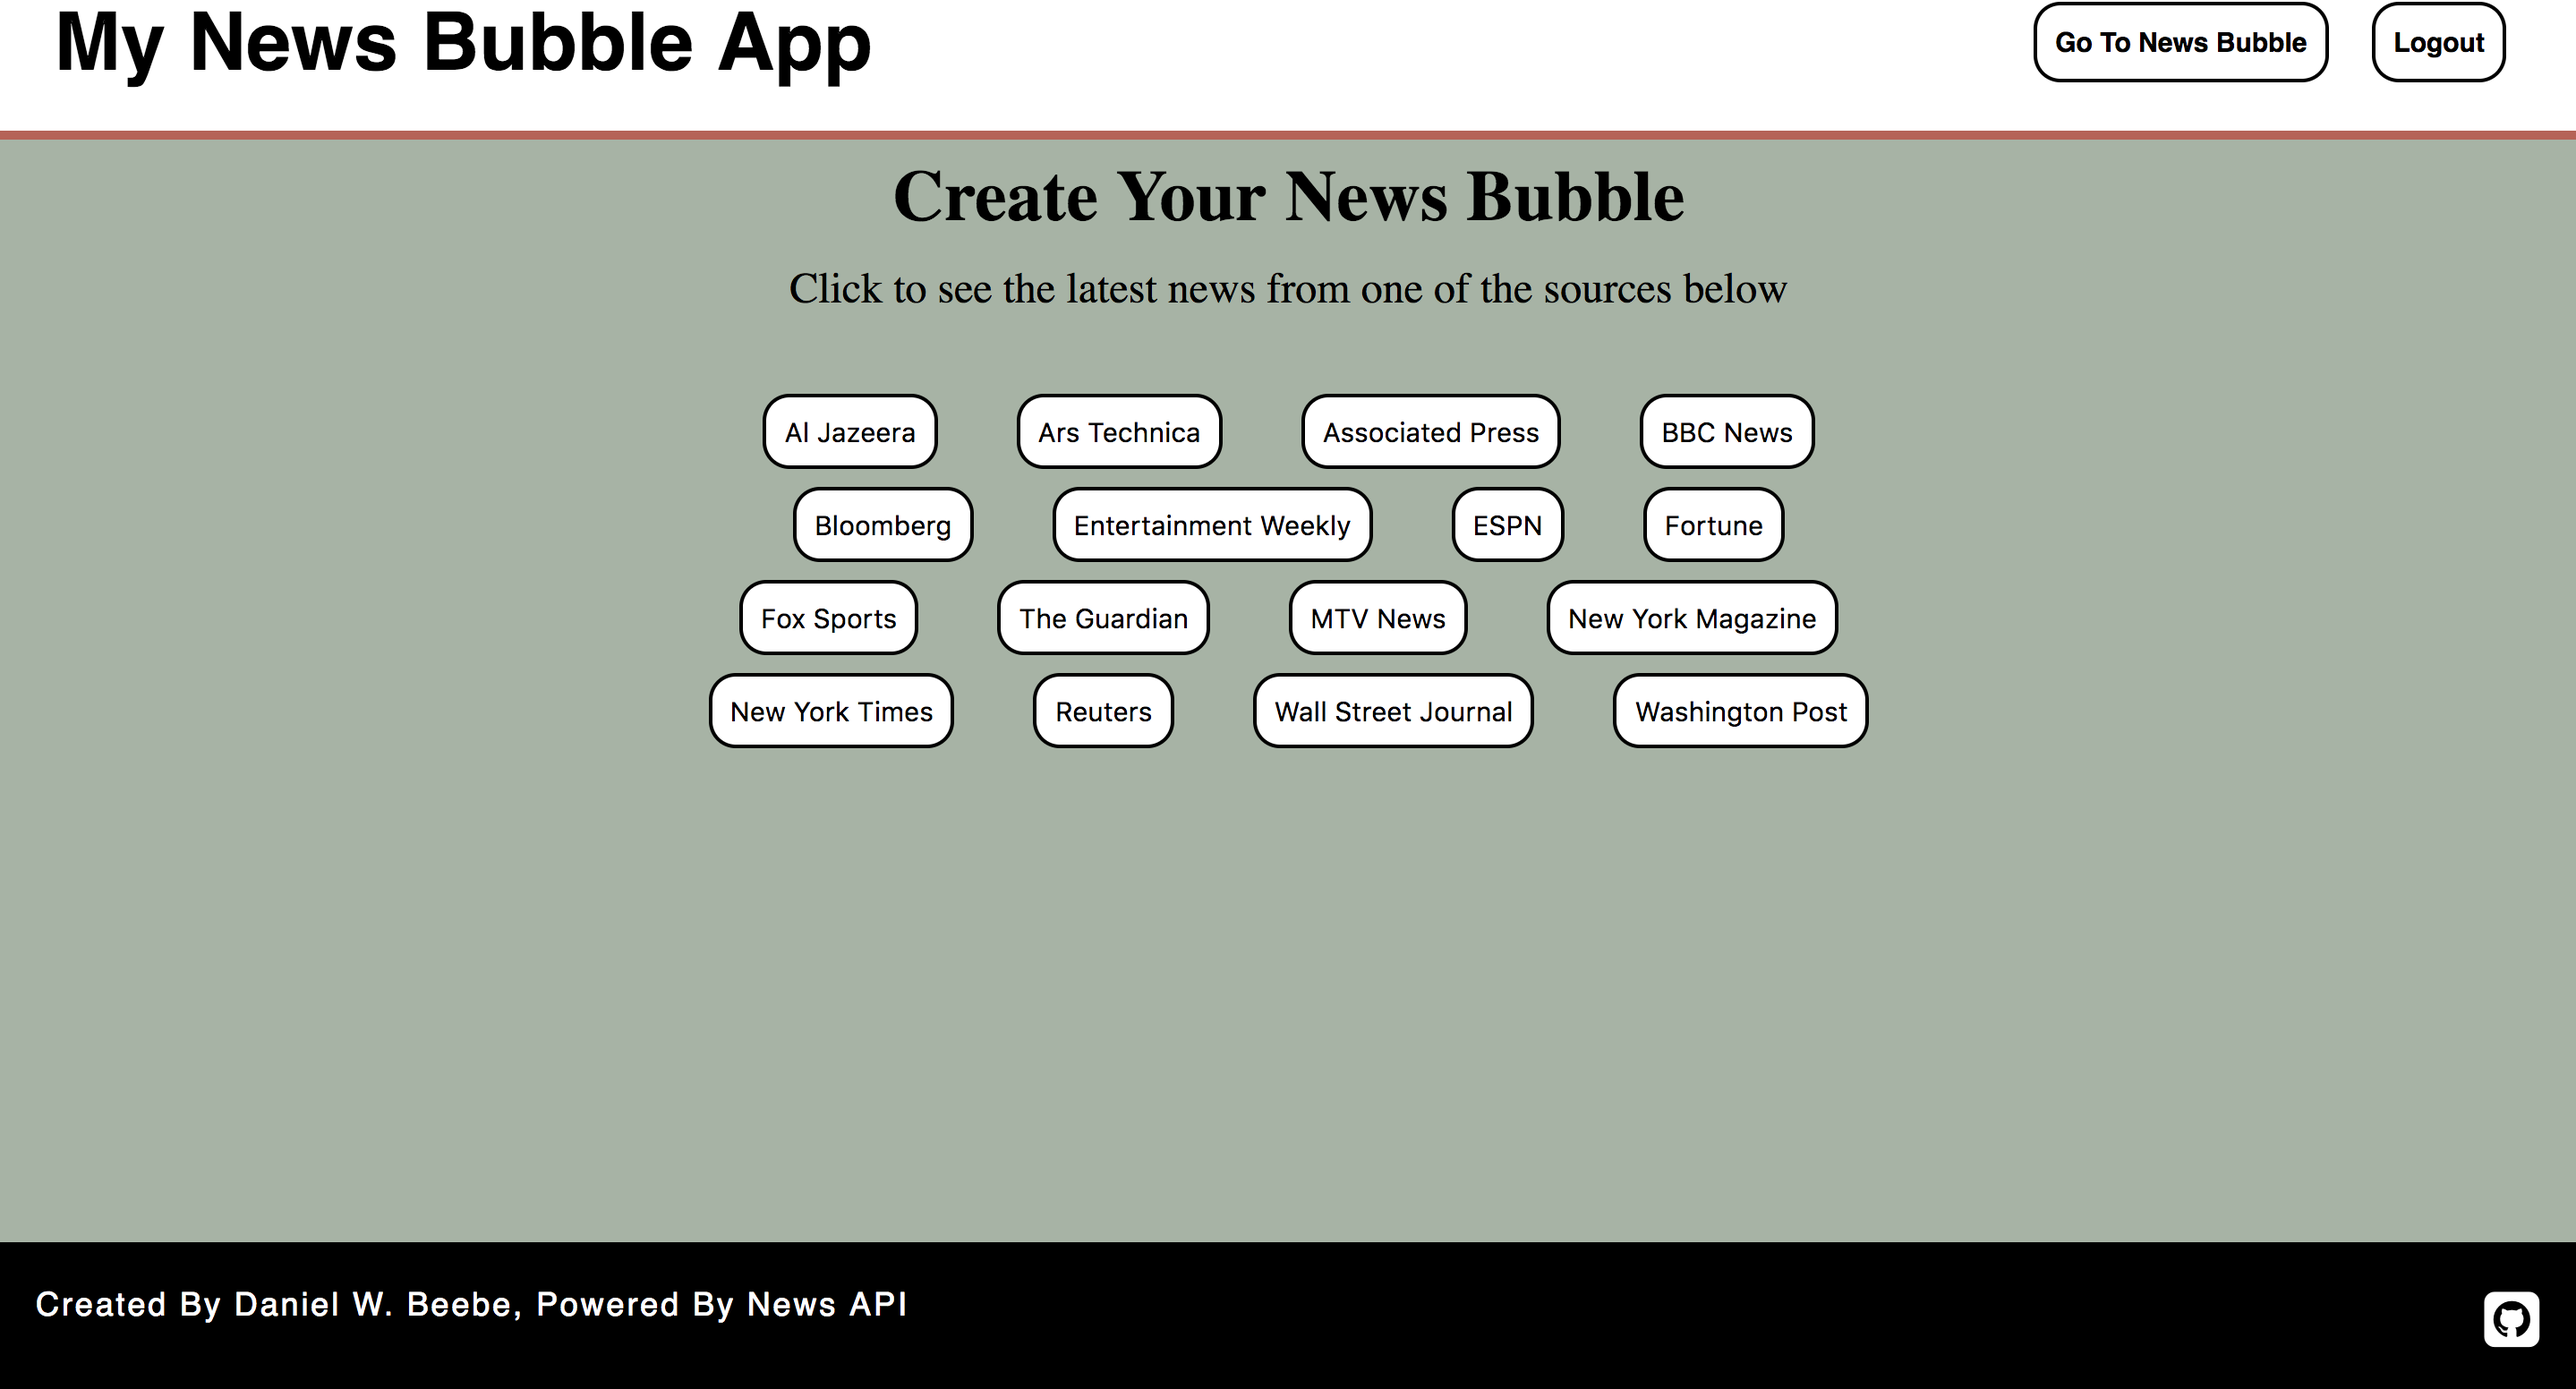
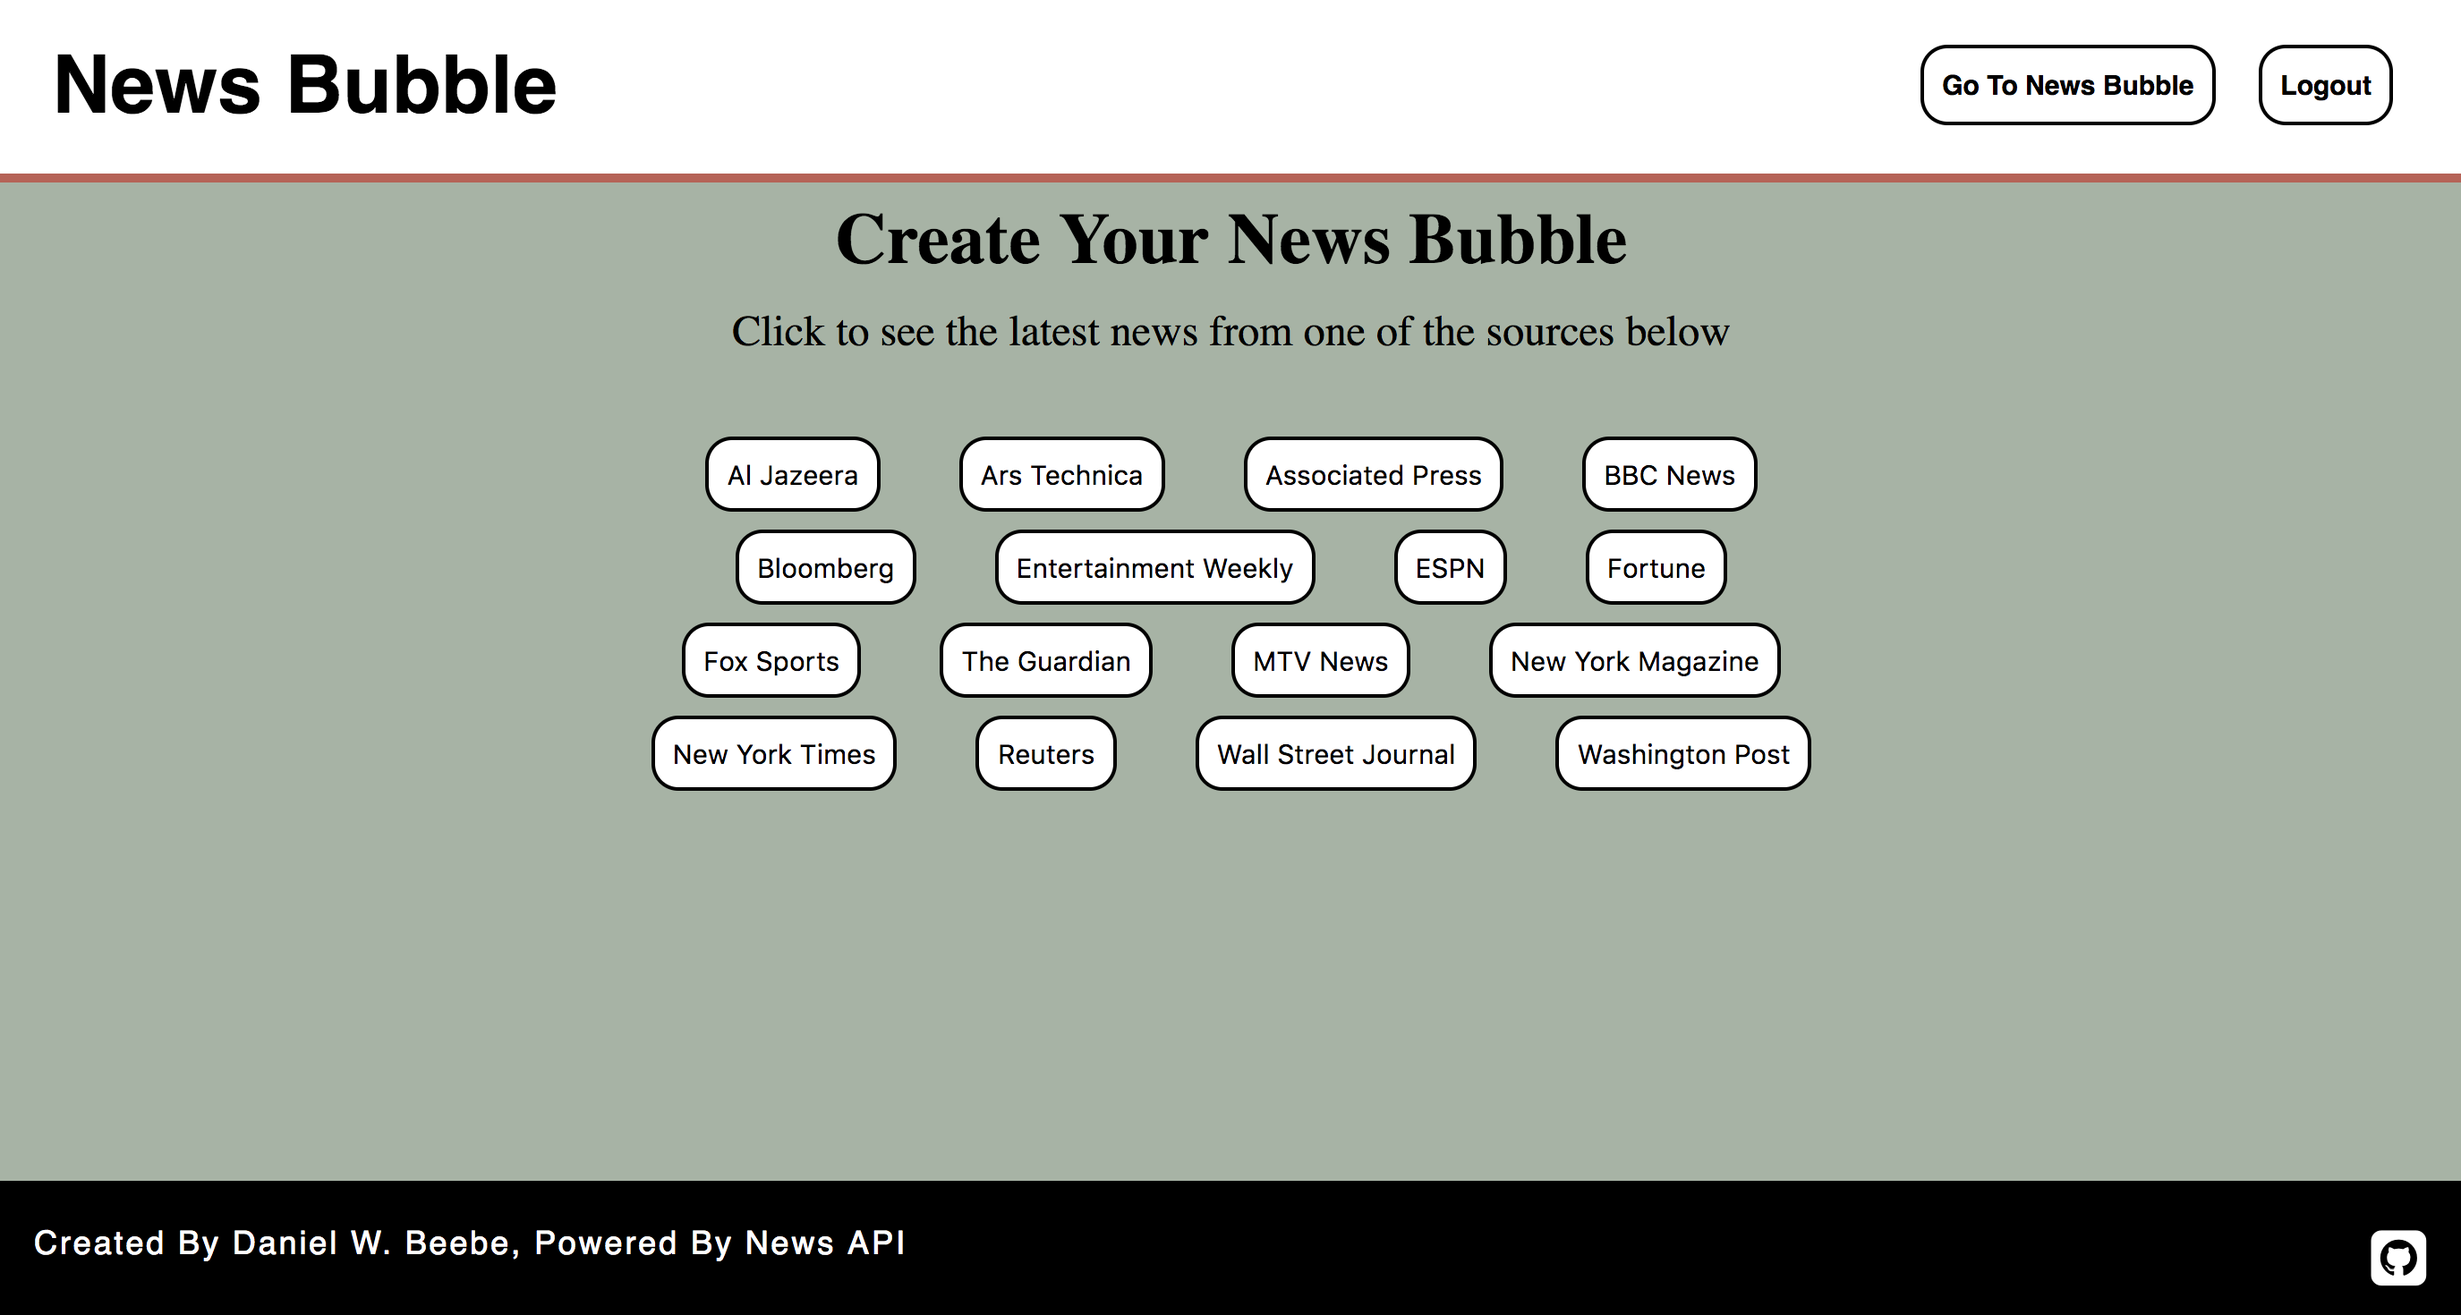
final styles edits and readme edits

Changed region(s): [[0.0, 0.0, 1.0, 0.6122], [0.0, 0.8878, 1.0, 0.9796]]

diff --git a/public/styles/style.css b/public/styles/style.css
@@ -172,15 +172,20 @@ p, a {
 }
 
 #title {
+  font-family: Mallory, sans-serif;
   font-size: 26px;
   line-height: 1.4em;
   width: 550px;
 }
 
 #description {
-  font-size: 20px;
+  font-size: 24px;
   width: 550px;
   text-align: justify;
+}
+
+#url {
+  font-size: 22px;
 }
 
 img {
@@ -211,6 +216,11 @@ img {
 
   #description {
     max-width: 400px;
+    font-size: 22px;
+  }
+
+  #url {
+  font-size: 20px;
   }
 
   img {
@@ -249,12 +259,17 @@ img {
   }
 
   #title {
-  font-size: 20px;
-  width: 325px;
+    font-size: 20px;
+    width: 325px;
   }
 
   #description {
     max-width: 325px;
+    font-size: 20px;
+  }
+
+  #url {
+    font-size: 20px;
   }
 
   img {

diff --git a/models/source.js b/models/source.js
@@ -4,7 +4,7 @@ const db = require('../db/config');
 // define source as object
 const Source = {};
 
-// find all
+// find all - finds all articles associated with a specific user
 Source.findAll = (id) => {
   return db.query(`
     SELECT * FROM sources
@@ -30,7 +30,7 @@ Source.findById = (id) => {
   `, [id]);
 };
 
-// destroy
+// destroy - delete specific article row from table sources in db
 Source.destroy = (id) => {
   return db.none(`
     DELETE FROM sources

diff --git a/readme.md b/readme.md
@@ -19,7 +19,7 @@ The app is deployed at: https://news-bubble.herokuapp.com/
 The app utilizes the following technologies:
 
 * HTML/EJS (general framework for the page views)
-* CSS (style, formatting, adaptive design for web browser width)
+* CSS (style, formatting, adaptive design for web browser widths with break points at 800px and 500px)
 * JavaScript (functions for models, controllers, routes, and config file)
 * SQL (migration file, communicate with database with tables for registered users and news sources selected by users)
 * Express.js (for the web app framework)
